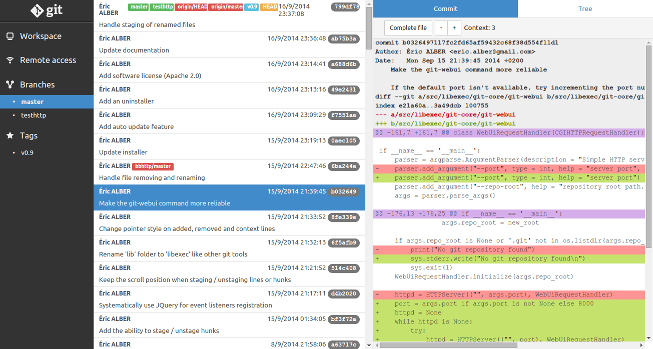
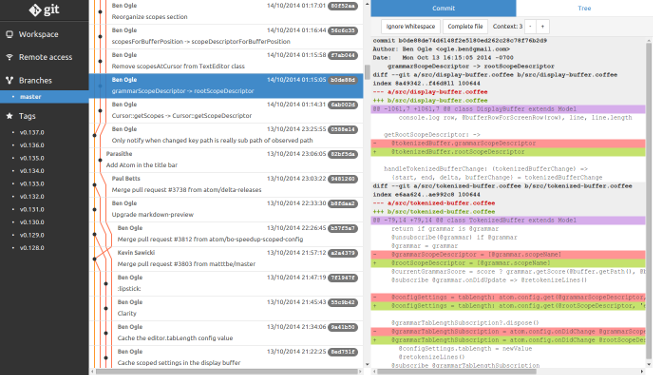
Add a commit graph
Display links of each commit to its parents

diff --git a/src/share/git-webui/webui/js/git-webui.js b/src/share/git-webui/webui/js/git-webui.js
@@ -20,6 +20,24 @@ var webui = webui || {};
 
 webui.repo = "/";
 
+webui.COLORS = ["#412000", "#451904", "#5d1f0c", "#4a1700", "#490036", "#48036c", "#051e81", "#0b0779", "#1d295a", "#004b59", "#004800", "#164000", "#2c3500", "#463a09", "#401a02", "#000000",
+                "#542800", "#721e11", "#7a240d", "#721f00", "#66004b", "#5c0488", "#0626a5", "#201c8e", "#1d3876", "#005d6e", "#005400", "#1c5300", "#384400", "#4d3f09", "#581f05", "#252525",
+                "#763700", "#9f241e", "#982c0e", "#a81300", "#80035f", "#650d90", "#082fca", "#3531a3", "#1d4892", "#006f84", "#036b03", "#236600", "#445200", "#544509", "#702408", "#343434",
+                "#9a5000", "#b33a20", "#b02f0f", "#c8210a", "#950f74", "#7b23a7", "#263dd4", "#4642b4", "#1d5cac", "#00849c", "#0e760e", "#287800", "#495600", "#6c5809", "#8d3a13", "#4e4e4e",
+                "#c36806", "#c85120", "#bf3624", "#df2512", "#aa2288", "#933bbf", "#444cde", "#5753c5", "#1d71c6", "#0099bf", "#188018", "#2e8c00", "#607100", "#907609", "#ab511f", "#686868",
+                "#e47b07", "#e36920", "#d34e2a", "#ec3b24", "#ba3d99", "#9d45c9", "#4f5aec", "#615dcf", "#3286cf", "#00abca", "#279227", "#3a980c", "#6c7f00", "#ab8b0a", "#b56427", "#757575",
+                "#ff911a", "#fc8120", "#e7623e", "#fa5236", "#ca4da9", "#a74fd3", "#5a68ff", "#6d69db", "#489bd9", "#00bcde", "#36a436", "#47a519", "#798d0a", "#c1a120", "#bf7730", "#8e8e8e",
+                "#ffab1d", "#fd8c25", "#f36e4a", "#fc6148", "#d75ab6", "#b25ade", "#6575ff", "#7b77e9", "#4ea8ec", "#00d0f5", "#4eb94e", "#51af23", "#8b9f1c", "#d0b02f", "#d0853a", "#a4a4a4",
+                "#ffc51f", "#fe982c", "#fd7854", "#ff705f", "#e467c3", "#bd65e9", "#7183ff", "#8985f7", "#55b6ff", "#10dcff", "#51cd51", "#5cba2e", "#9eb22f", "#debe3d", "#e19344", "#b8b8b8",
+                "#ffd03b", "#ffae38", "#ff8a6a", "#ff7e7e", "#ef72ce", "#c56df1", "#8091ff", "#918dff", "#69caff", "#3ee1ff", "#72da72", "#71cf43", "#abbf3c", "#e6c645", "#eda04e", "#c5c5c5",
+                "#ffd84c", "#ffb946", "#ff987c", "#ff8f8f", "#fb7eda", "#ce76fa", "#90a0ff", "#9c98ff", "#74cbff", "#64e7ff", "#7ce47c", "#85e357", "#b8cc49", "#edcd4c", "#f9ad58", "#d0d0d0",
+                "#ffe651", "#ffbf51", "#ffa48b", "#ff9d9e", "#ff8de1", "#d583ff", "#97a9ff", "#a7a4ff", "#82d3ff", "#76eaff", "#85ed85", "#8deb5f", "#c2d653", "#f5d862", "#fcb75c", "#d7d7d7",
+                "#fff456", "#ffc66d", "#ffb39e", "#ffabad", "#ff9de5", "#da90ff", "#9fb2ff", "#b2afff", "#8ddaff", "#8bedff", "#99f299", "#97f569", "#cde153", "#fbe276", "#ffc160", "#e1e1e1",
+                "#fff970", "#ffd587", "#ffc2b2", "#ffb9bd", "#ffa5e7", "#de9cff", "#afbeff", "#bbb8ff", "#9fd4ff", "#9aefff", "#b3f7b3", "#a0fe72", "#dbef6c", "#fcee98", "#ffca69", "#eaeaea",
+                "#ffff90", "#ffe498", "#ffd0c3", "#ffc7ce", "#ffafea", "#e2a9ff", "#c0cbff", "#c3c1ff", "#b4e2ff", "#b1f3ff", "#c3f9c3", "#b1ff8a", "#e8fc79", "#fdf3a9", "#ffcf7e", "#f4f4f4",
+                "#ffffaa", "#ffe6ab", "#ffdad0", "#ffcade", "#ffb8ec", "#e6b6ff", "#cdd3ff", "#d3d1ff", "#c0ebff", "#c7f6ff", "#cdfccd", "#bcff9a", "#f2ffab", "#fdf3be", "#ffda96", "#ffffff"]
+
+
 webui.git = function(cmd, arg1, arg2) {
     // cmd = git command line arguments
     // other arguments = optional stdin content and a callback function:
@@ -310,6 +328,8 @@ webui.LogView = function(historyView) {
     var self = this;
 
     self.update = function(ref) {
+        $(svg).empty();
+        streams = []
         $(content).empty();
         self.nextRef = ref;
         self.populate();
@@ -321,7 +341,8 @@ webui.LogView = function(historyView) {
             // The last node is the 'Show more commits placeholder'. Remove it.
             content.removeChild(content.lastElementChild);
         }
-        webui.git("log --pretty=raw --decorate=full --max-count=" + (maxCount + 1) + " " + self.nextRef, function(data) {
+        var startAt = content.childElementCount;
+        webui.git("log --date-order --pretty=raw --decorate=full --max-count=" + (maxCount + 1) + " " + self.nextRef, function(data) {
             var start = 0;
             var count = 0;
             self.nextRef = undefined;
@@ -335,6 +356,10 @@ webui.LogView = function(historyView) {
                 var entry = new Entry(self, data.substr(start, len));
                 if (count < maxCount) {
                     content.appendChild(entry.element);
+                    if (!self.lineHeight) {
+                        self.lineHeight = Math.ceil($(entry.element).outerHeight() / 2) * 2;
+                    }
+                    entry.element.setAttribute("style", "height:" + self.lineHeight + "px");
                     if (!currentSelection) {
                         entry.select();
                     }
@@ -348,18 +373,108 @@ webui.LogView = function(historyView) {
                 start = end + 1;
                 ++count;
             }
-            canvas.height = $(content).outerHeight();
-            canvas.width = $(content).outerWidth();
-            var ctx = canvas.getContext("2d");
-            ctx.clearRect(0, 0, canvas.width, canvas.height);
+            svg.setAttribute("height", $(content).outerHeight());
+            svg.setAttribute("width", $(content).outerWidth());
             if (self.nextRef != undefined) {
                 var moreTag = $('<a class="log-entry log-entry-more list-group-item">');
                 $('<a class="list-group-item-text">Show previous commits</a>').appendTo(moreTag[0]);
                 moreTag.click(self.populate);
                 moreTag.appendTo(content);
             }
+
+            self.updateGraph(startAt);
         });
     };
+
+    self.updateGraph = function(startAt) {
+        // Draw the graph
+        var currentY = (startAt + 0.5) * self.lineHeight;
+        for (var i = startAt; i < content.children.length; ++i) {
+            var entry = content.children[i].model;
+            if (!entry) {
+                break;
+            }
+            var index = 0;
+            var left = streams.length;
+
+            // Find streams to join
+            var childCount = 0;
+            var xOffset = 12;
+            var removedStreams = 0;
+            for (var j = 0; j < streams.length;) {
+                var stream = streams[j];
+                if (stream.sha1 == entry.commit) {
+                    if (childCount == 0) {
+                        // Replace the stream
+                        stream.path.setAttribute("d", stream.path.cmds + currentY);
+                        if (entry.parents.length == 0) {
+                            streams.splice(j, 1);
+                        } else {
+                            stream.sha1 = entry.parents[0];
+                        }
+                        index = j;
+                        ++j;
+                    } else {
+                        // Join the stream
+                        var x = (index + 1) * xOffset;
+                        stream.path.setAttribute("d", stream.path.cmds + (currentY - self.lineHeight / 2) + " L " + x + " " + currentY);
+                        streams.splice(j, 1);
+                        ++removedStreams;
+                    }
+                    ++childCount;
+                } else {
+                    if (removedStreams != 0) {
+                        var x = (j + 1) * xOffset;
+                        stream.path.setAttribute("d", stream.path.cmds + (currentY - self.lineHeight / 2) + " L " + x + " " + currentY);
+                    }
+                    ++j;
+                }
+            }
+
+            // Add new streams
+            for (var j = 0; j < entry.parents.length; ++j) {
+                var parent = entry.parents[j];
+                var svgPath = document.createElementNS("http://www.w3.org/2000/svg", "path");
+                svgPath.setAttribute("style", "stroke:" + webui.COLORS[128 + index + j + 1]);
+                var x = (index + j + 1) * xOffset;
+                if (j == 0) {
+                    svgPath.cmds = "M " + x + " " + currentY + " L " + x + " ";
+                } else {
+                    var origX = (index + 1) * xOffset;
+                    svgPath.cmds = "M " + origX + " " + currentY + " L " + x + " " + (currentY + self.lineHeight / 2) + " L " + x + " ";
+                }
+                svg.appendChild(svgPath);
+                var obj = {
+                    sha1: parent,
+                    path: svgPath,
+                };
+                streams.splice(index + j, j == 0 ? 1 : 0, obj);
+            }
+            for (var j = index + j; j < streams.length; ++j) {
+                var stream = streams[j];
+                var x = (j + 1) * xOffset;
+                stream.path.cmds += (currentY - self.lineHeight / 2) + " L " + x + " " + currentY + " L " + x + " ";
+            }
+
+            var svgCircle = document.createElementNS("http://www.w3.org/2000/svg", "circle");
+            svgCircle.setAttribute("cx", (index + 1) * xOffset);
+            svgCircle.setAttribute("cy", currentY);
+            svgCircle.setAttribute("r", 4);
+            svg.appendChild(svgCircle);
+
+            left = Math.max(left, streams.length);
+            entry.element.setAttribute("style", entry.element.getAttribute("style") + ";padding-left:" + (left + 1) * xOffset + "px");
+
+            // Debug log
+            //console.log(entry.commit, entry.parents, $.extend(true, [], streams));
+
+            currentY += self.lineHeight;
+        }
+        for (var i = 0; i < streams.length; ++i) {
+            var stream = streams[i];
+            stream.path.setAttribute("d", stream.path.cmds + currentY);
+        }
+    }
 
     function Person(data) {
         var nameEnd = data.indexOf("<");
@@ -469,10 +584,12 @@ webui.LogView = function(historyView) {
     };
 
     self.historyView = historyView;
-    self.element = $('<div id="log-view" class="list-group"><canvas></canvas><div></div></div>')[0];
-    var canvas = $("canvas", self.element)[0];
-    var content = canvas.nextElementSibling;
+    self.element = $('<div id="log-view" class="list-group"><svg xmlns="http://www.w3.org/2000/svg"></svg><div></div></div>')[0];
+    var svg = self.element.children[0];
+    var content = self.element.children[1];
     var currentSelection = null;
+    var lineHeight = null;
+    var streams = [];
 };
 
 /*

diff --git a/src/share/git-webui/webui/css/git-webui.less b/src/share/git-webui/webui/css/git-webui.less
@@ -214,19 +214,27 @@ body {
     border-right: 1px @separator-line solid;
     position: relative;
 
-    canvas {
+    svg {
         position: absolute;
         top: 0;
         left: 0;
+
+        path {
+            stroke-width: 2;
+            fill: none;
+        }
+
+        circle {
+            stroke: none;
+            fill: @gray-dark;
+        }
     }
 
     .log-entry {
         padding: @padding-small-vertical @padding-small-horizontal;
         background-color: transparent;
-
-        &:first-child {
-            border-top-width: 0;
-        }
+        margin: 0;
+        border-top-width: 0;
 
         &:hover {
             background-color: rgba((  red(@list-group-hover-bg) - 25) / @log-view-opacity,
@@ -240,6 +248,10 @@ body {
                                    (green(@brand-primary) - 25) / @log-view-opacity,
                                    ( blue(@brand-primary) - 25) / @log-view-opacity,
                                    @log-view-opacity);
+
+            header h6 a {
+                color: @component-active-color;
+            }
         }
 
         header {
@@ -251,7 +263,7 @@ body {
                 margin-top: 0;
 
                 a {
-                    color: inherit;
+                    color: #777777;
                 }
             }
 
